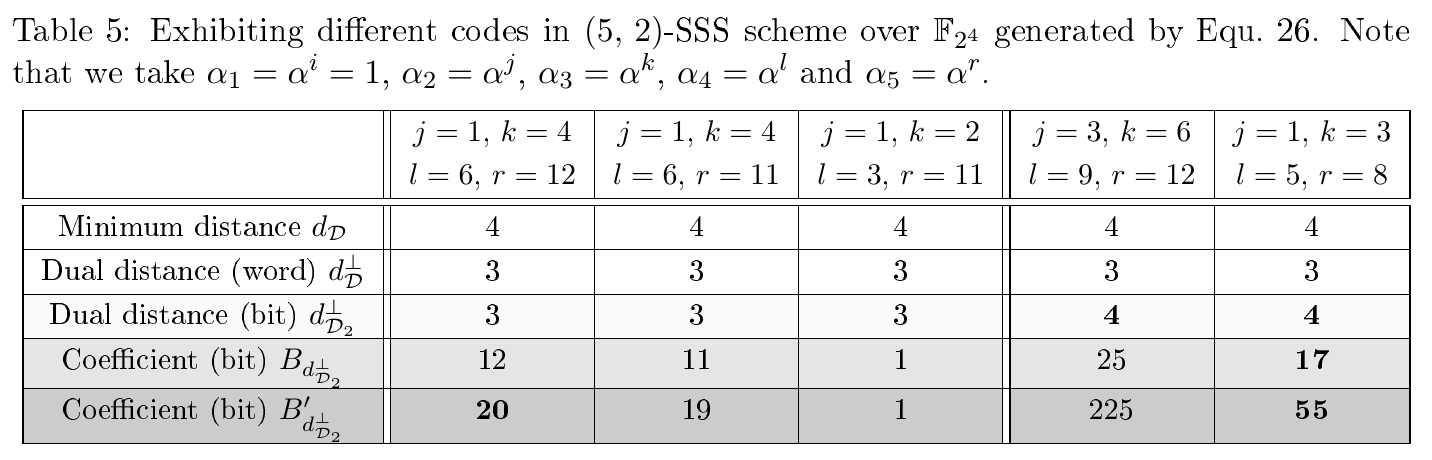
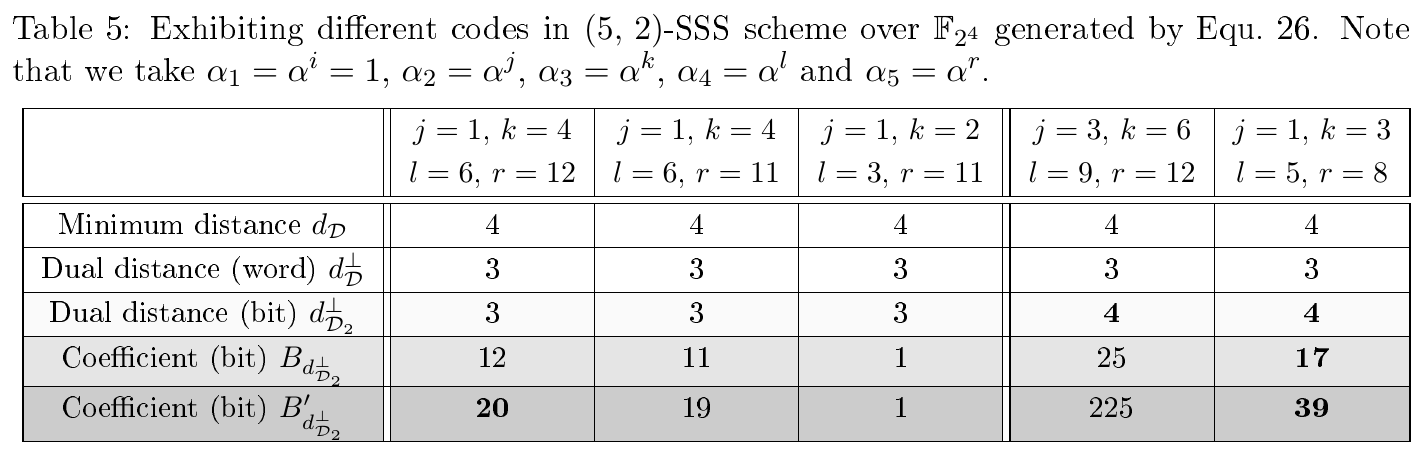
Exhibiting some codes with different dual distance d and B'_d.

Changed region(s): [[0.0, 0.2163, 1.0, 0.989], [0.0, 0.0309, 0.9867, 0.1854]]

diff --git a/magma/compute_B_prime.m b/magma/compute_B_prime.m
@@ -4,16 +4,22 @@
 @ Wei Cheng, 17-08-2020
 **/
 
-GF256<alpha> := GF(2^8);
+GF_K<alpha> := GF(2^8);
 
-C := LinearCode<GF256, 3|[1, 1, 1]>;
-D := LinearCode<GF256, 3|[alpha, alpha^73, alpha^81]>;
-
+j := 72;
+k := 80;
+C := LinearCode<GF_K, 3|[1, 1, 1]>;
+D := LinearCode<GF_K, 3|[1, alpha^j, alpha^k]>;
+						  
 C_dual_b := SubfieldRepresentationCode(Dual(C), GF(2));
 D_dual_b := SubfieldRepresentationCode(Dual(D), GF(2));
 d_dual := MinimumWeight(D_dual_b);
 
-CWs := [[x, x+a]: x in D_dual_b, a in (D_dual_b meet C_dual_b) | (x+a in D_dual_b) and (Weight(x) eq d_dual) and (Weight(x+a) eq d_dual)];
+X_s := [x: x in D_dual_b | (x notin C_dual_b) and (Weight(x) eq d_dual)];
+B_d_p := [[x,y]: x in X_s, y in X_s | x+y in C_dual_b];
 
-print "B'_d: ", #CWs; // Number of codewords satisfy all conditions
-print "Codewords: ", CWs; // Output all combinations of (x, y)
+print "D_dual_b: ", D_dual_b;
+print "Weight distribution: ", WeightDistribution(D_dual_b);
+print "d_dual: ", d_dual; // dual distance of D
+print "B'_d: ", #B_d_p; // Number of codewords satisfy all conditions
+print "Codewords: ", B_d_p; // Output all combinations of (x, y)
